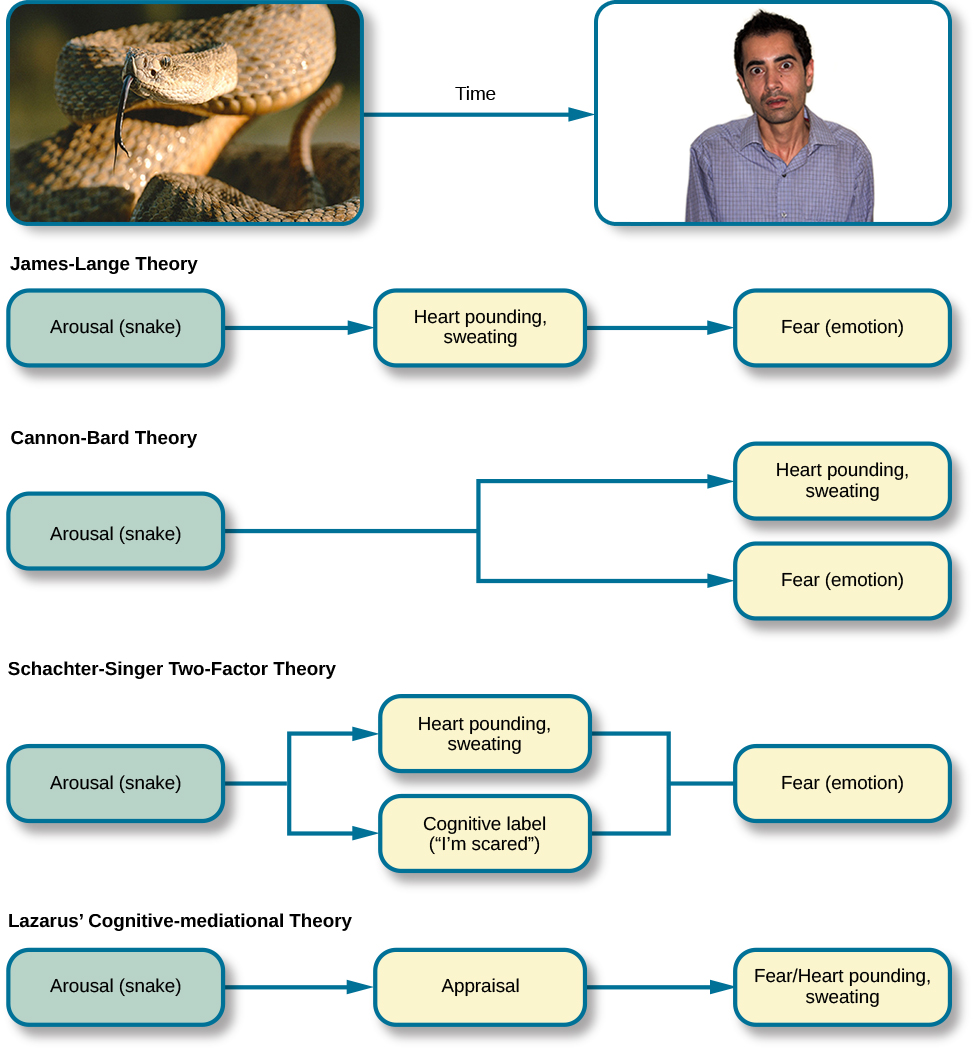
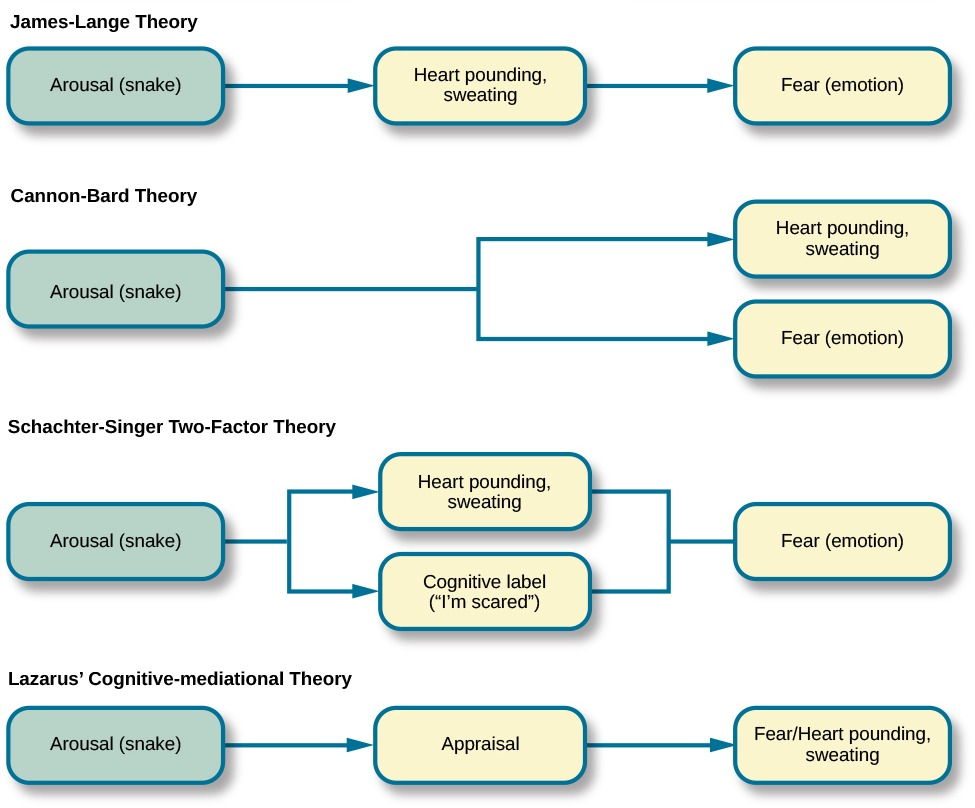
Figures: classes 05, 18 and 19 show a new drawing of scalp electrodes recording an EEG in place of the old photo; class 45's theories-of-emotion chart is cropped; class 18's photo credits name their licenses; class 07's Loftus and Palmer diagram shows Experiment I (seven films); class 29's curve sho

diff --git a/figures-class18.html b/figures-class18.html
@@ -28,8 +28,8 @@ a { color: var(--accent); }
 <p class="lede">The brain. These are the same figures as in your Class Notes, in the same order. If a figure in your notes shows as a gray box, use this page instead.</p>
 <figure>
 <h2>Slide 6. Nobody Watches a Thought Happen</h2>
-<img src="figures/class18/figure1.jpg" alt="Slide 6. Nobody Watches a Thought Happen: OpenStax, Psychology 2e, Figure 3.29, CC BY 4.0, credit: SMI Eye Tracking" loading="lazy">
-<figcaption>OpenStax, Psychology 2e, Figure 3.29, CC BY 4.0, credit: SMI Eye Tracking</figcaption>
+<img src="figures/class18/figure1.svg" alt="Slide 6. Nobody Watches a Thought Happen: Scalp electrodes recording an EEG." loading="lazy">
+<figcaption>Scalp electrodes recording an EEG.</figcaption>
 </figure>
 <figure>
 <h2>Slide 9. The Brainstem and the Medulla</h2>
@@ -43,8 +43,8 @@ a { color: var(--accent); }
 </figure>
 <figure>
 <h2>Slide 12. Two Hemispheres, One Cortex</h2>
-<img src="figures/class18/figure4.jpg" alt="Slide 12. Two Hemispheres, One Cortex: Read panel (a): the left and right hemispheres, joined by the corpus callosum. Panels (b) and (c) show the same band from the side and in a dissected brain. OpenStax, Psychology 2e, Figure 3.16, CC BY 4.0. Credit (c): modification of work by Aaron Bornstein." loading="lazy">
-<figcaption>Read panel (a): the left and right hemispheres, joined by the corpus callosum. Panels (b) and (c) show the same band from the side and in a dissected brain. OpenStax, Psychology 2e, Figure 3.16, CC BY 4.0. Credit (c): modification of work by Aaron Bornstein.</figcaption>
+<img src="figures/class18/figure4.jpg" alt="Slide 12. Two Hemispheres, One Cortex: Read panel (a): the left and right hemispheres, joined by the corpus callosum. Panels (b) and (c) show the same band from the side and in a dissected brain. OpenStax, Psychology 2e, Figure 3.16, CC BY 4.0. Credit (c): modification of work by Aaron Bornstein, CC BY 2.0." loading="lazy">
+<figcaption>Read panel (a): the left and right hemispheres, joined by the corpus callosum. Panels (b) and (c) show the same band from the side and in a dissected brain. OpenStax, Psychology 2e, Figure 3.16, CC BY 4.0. Credit (c): modification of work by Aaron Bornstein, CC BY 2.0.</figcaption>
 </figure>
 <figure>
 <h2>Slide 14. The Limbic System (continued)</h2>
@@ -58,8 +58,8 @@ a { color: var(--accent); }
 </figure>
 <figure>
 <h2>Slide 16. The Frontal Lobe, as Reported</h2>
-<img src="figures/class18/figure7.jpg" alt="Slide 16. The Frontal Lobe, as Reported: The rod entered below Gage&#x27;s left eye and exited through the top of his skull, damaging the frontal lobe. OpenStax, Psychology 2e, Figure 3.19, CC BY 4.0; credit a: modification of work by Jack and Beverly Wilgus" loading="lazy">
-<figcaption>The rod entered below Gage&#x27;s left eye and exited through the top of his skull, damaging the frontal lobe. OpenStax, Psychology 2e, Figure 3.19, CC BY 4.0; credit a: modification of work by Jack and Beverly Wilgus</figcaption>
+<img src="figures/class18/figure7.jpg" alt="Slide 16. The Frontal Lobe, as Reported: The rod entered below Gage&#x27;s left eye and exited through the top of his skull, damaging the frontal lobe. OpenStax, Psychology 2e, Figure 3.19, CC BY 4.0; photograph: Jack and Beverly Wilgus, CC BY-SA 3.0" loading="lazy">
+<figcaption>The rod entered below Gage&#x27;s left eye and exited through the top of his skull, damaging the frontal lobe. OpenStax, Psychology 2e, Figure 3.19, CC BY 4.0; photograph: Jack and Beverly Wilgus, CC BY-SA 3.0</figcaption>
 </figure>
 <figure>
 <h2>Slide 20. How It Was Designed</h2>

diff --git a/figures-class06.html b/figures-class06.html
@@ -27,8 +27,8 @@ a { color: var(--accent); }
 <h1>Figures from your class notes</h1>
 <p class="lede">Perception, thinking, and what memory is. These are the same figures as in your Class Notes, in the same order. If a figure in your notes shows as a gray box, use this page instead.</p>
 <figure>
-<h2>Slide 7. Environment Calibrates the Illusion</h2>
-<img src="figures/class06/figure1.png" alt="Slide 7. Environment Calibrates the Illusion: The two vertical lines are the same length. OpenStax, Psychology 2e, Figure 5.4 (panel a, cropped), CC BY 4.0" loading="lazy">
+<h2>Slide 7. Does the Environment Shape an Illusion?</h2>
+<img src="figures/class06/figure1.png" alt="Slide 7. Does the Environment Shape an Illusion?: The two vertical lines are the same length. OpenStax, Psychology 2e, Figure 5.4 (panel a, cropped), CC BY 4.0" loading="lazy">
 <figcaption>The two vertical lines are the same length. OpenStax, Psychology 2e, Figure 5.4 (panel a, cropped), CC BY 4.0</figcaption>
 </figure>
 <figure>

diff --git a/figures-class05.html b/figures-class05.html
@@ -28,8 +28,8 @@ a { color: var(--accent); }
 <p class="lede">The brain, sleep, sensation. These are the same figures as in your Class Notes, in the same order. If a figure in your notes shows as a gray box, use this page instead.</p>
 <figure>
 <h2>Slide 5. Nobody Can Watch a Thought Happen</h2>
-<img src="figures/class05/figure1.jpg" alt="Slide 5. Nobody Can Watch a Thought Happen: OpenStax, Psychology 2e, Figure 3.29, CC BY 4.0, credit: SMI Eye Tracking" loading="lazy">
-<figcaption>OpenStax, Psychology 2e, Figure 3.29, CC BY 4.0, credit: SMI Eye Tracking</figcaption>
+<img src="figures/class05/figure1.svg" alt="Slide 5. Nobody Can Watch a Thought Happen: Scalp electrodes recording an EEG." loading="lazy">
+<figcaption>Scalp electrodes recording an EEG.</figcaption>
 </figure>
 <figure>
 <h2>Slide 7. The Floor Plan, Bottom to Top</h2>

diff --git a/figures-class19.html b/figures-class19.html
@@ -38,8 +38,8 @@ a { color: var(--accent); }
 </figure>
 <figure>
 <h2>Slide 9. Reading a Sleeping Brain</h2>
-<img src="figures/class19/figure3.jpg" alt="Slide 9. Reading a Sleeping Brain: Scalp electrodes recording an EEG. OpenStax, Psychology 2e, Figure 3.29, CC BY 4.0, credit: SMI Eye Tracking" loading="lazy">
-<figcaption>Scalp electrodes recording an EEG. OpenStax, Psychology 2e, Figure 3.29, CC BY 4.0, credit: SMI Eye Tracking</figcaption>
+<img src="figures/class19/figure3.svg" alt="Slide 9. Reading a Sleeping Brain: Scalp electrodes recording an EEG." loading="lazy">
+<figcaption>Scalp electrodes recording an EEG.</figcaption>
 </figure>
 <figure>
 <h2>Slide 10. Reading a Sleeping Brain (continued)</h2>

diff --git a/figures-class45.html b/figures-class45.html
@@ -48,8 +48,8 @@ a { color: var(--accent); }
 </figure>
 <figure>
 <h2>Slide 30. The Order Each Theory Claims</h2>
-<img src="figures/class45/figure5.jpg" alt="Slide 30. The Order Each Theory Claims: OpenStax, Psychology 2e, Figure 10.21, CC BY 4.0" loading="lazy">
-<figcaption>OpenStax, Psychology 2e, Figure 10.21, CC BY 4.0</figcaption>
+<img src="figures/class45/figure5.jpg" alt="Slide 30. The Order Each Theory Claims: Adapted from OpenStax, Psychology 2e, Figure 10.21, CC BY 4.0, cropped" loading="lazy">
+<figcaption>Adapted from OpenStax, Psychology 2e, Figure 10.21, CC BY 4.0, cropped</figcaption>
 </figure>
 <figure>
 <h2>Slide 44. The 1912 Balloon Tracing</h2>
